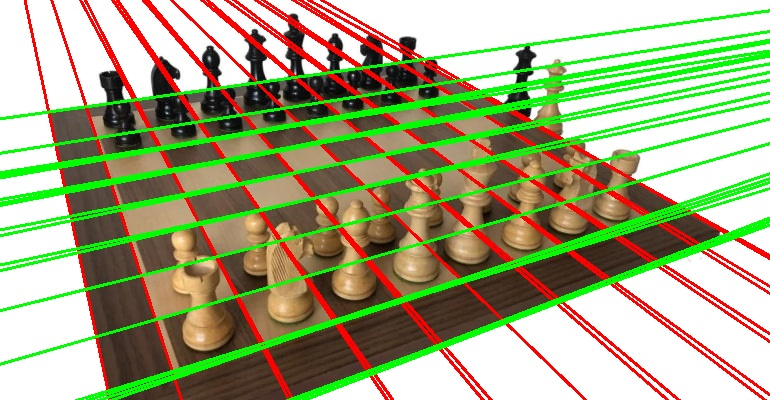
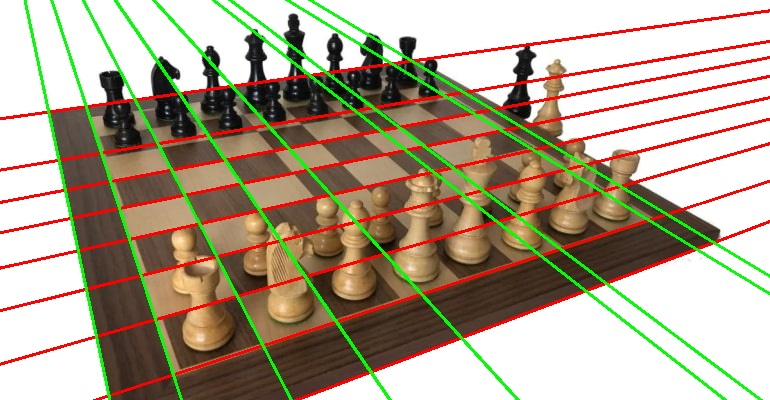
fix KmeansLines

diff --git a/martin/ChessLinesClustering.py b/martin/ChessLinesClustering.py
@@ -75,15 +75,26 @@ class ChessLines():
 
     def _KmeansLines(self):
         distanceClusteringH = skcluster.KMeans(n_clusters=9).fit(self._h[:,0].reshape(-1,1))
-        distanceClusteringV = skcluster.KMeans(n_clusters=9).fit(self.v[:,0].reshape(-1,1))
+        distanceClusteringV = skcluster.KMeans(n_clusters=9).fit(self._v[:,0].reshape(-1,1))
 
         hMeanDists = distanceClusteringH.cluster_centers_
         vMeanDists = distanceClusteringV.cluster_centers_
-        hMeanAngles = self._angleClustering.cluster_centers_[0].repeat(9).reshape(9,1)
-        vMeanAngles = self._angleClustering.cluster_centers_[1].repeat(9).reshape(9,1)
+        #hMeanAngles = self._angleClustering.cluster_centers_[0].repeat(9).reshape(9,1)
+        #vMeanAngles = self._angleClustering.cluster_centers_[1].repeat(9).reshape(9,1)
 
-        hClusteredLines = np.append(hMeanDists, hMeanAngles, axis=1)
-        vClusteredLines = np.append(vMeanDists, vMeanAngles, axis=1)
+        hMeanAngles = np.array([], dtype=np.float64)
+        vMeanAngles = np.array([], dtype=np.float64)
+
+        for c in np.sort(np.unique(distanceClusteringH.labels_)):
+            h_cluster_line = self._h[distanceClusteringH.labels_ == c] #tutte le linee del cluster c
+            hMeanAngles = np.append(hMeanAngles, np.average(h_cluster_line[:,1])) #calcolo theta medio del cluster c
+
+        for c in np.sort(np.unique(distanceClusteringV.labels_)):
+            v_cluster_line = self._v[distanceClusteringV.labels_ == c] #tutte le linee del cluster c
+            vMeanAngles = np.append(vMeanAngles, np.average(v_cluster_line[:,1])) #calcolo theta medio del cluster c
+
+        hClusteredLines = np.append(hMeanDists, hMeanAngles.reshape(9,1), axis=1)
+        vClusteredLines = np.append(vMeanDists, vMeanAngles.reshape(9,1), axis=1)
 
         return hClusteredLines, vClusteredLines
 

diff --git a/martin/chessboard_detection.py b/martin/chessboard_detection.py
@@ -45,7 +45,7 @@ def find_board(fname, output_name, verbose_show=False, verbose_output=False):
     # Hough line detection
     lines = cv2.HoughLines(edges, 1, np.pi/180, 100)
     
-    chessLines = ChessLines(lines)
+    chessLines = ChessLines(lines, cluster_type = "KmeansLines")
     
     # Horizontal and Vertical lines
     
@@ -107,7 +107,7 @@ def main():
         print(f"file found: {input_img}")
         imgname = input_img.split('\\')[-1]
     
-        find_board(input_img, f"{'output_' + imgname}", verbose_output=True)
+        find_board(input_img, f"{'output_' + imgname}",verbose_show=False ,verbose_output=True)
         #cv2.imwrite('crop.jpg', find_board('./martin/input/1.jpg', '1'))
 
 
